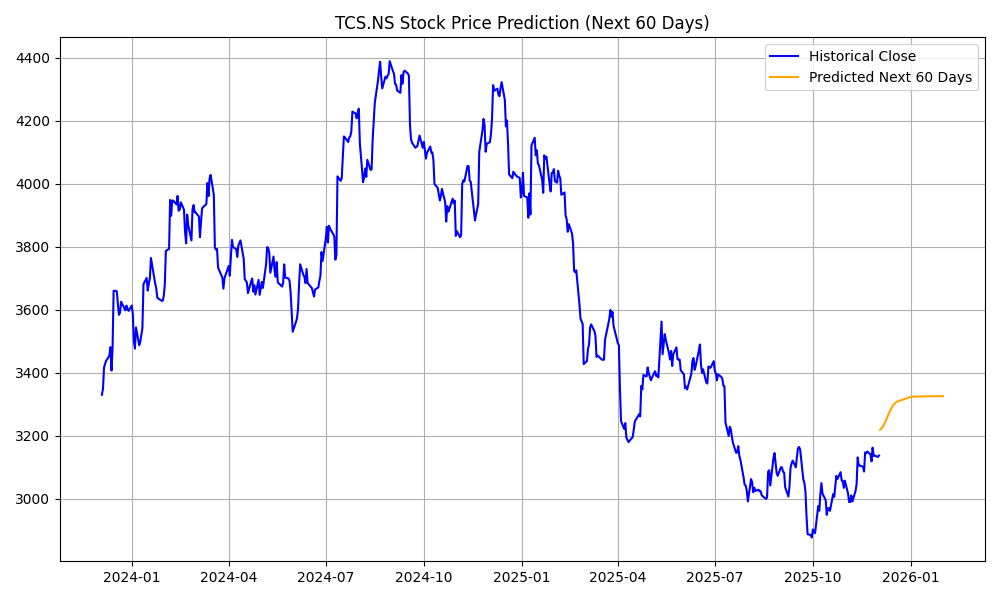
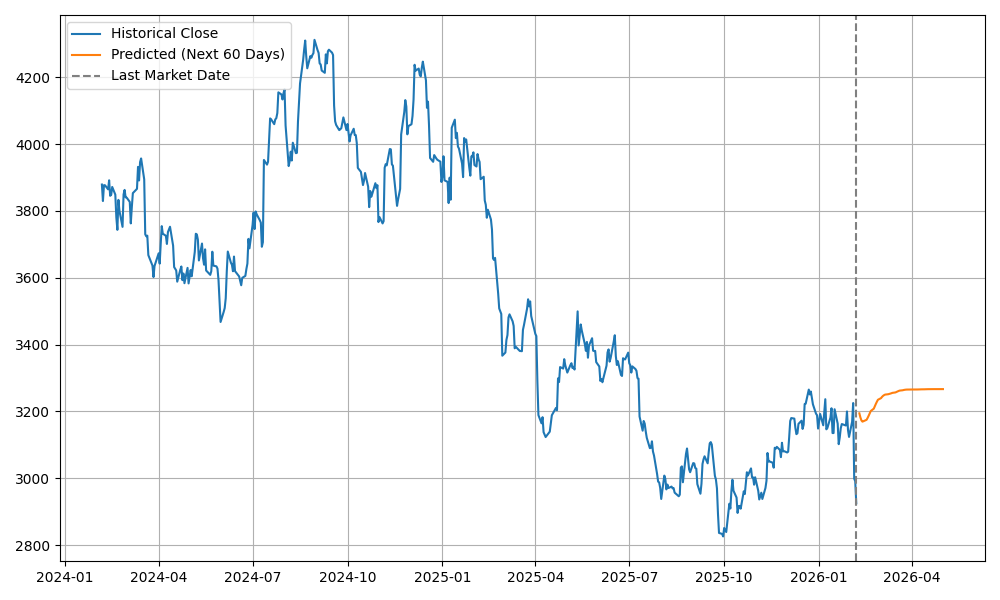
done

diff --git a/main.py b/main.py
@@ -58,10 +58,10 @@ def analyze_stock(stock: str = Form(...)):
         if model is None:
             model = load_model(MODEL_PATH)
 
-        # Fetch data
+        # Fetch stock data
         data = yf.download(stock, period="2y", auto_adjust=True, threads=False)
         if data.empty:
-            return JSONResponse(status_code=400, content={"error": "Invalid stock symbol"})
+            return JSONResponse(status_code=400, content={"error": "Invalid stock symbol or no data found"})
 
         data = data[['Close']]
 
@@ -69,7 +69,7 @@ def analyze_stock(stock: str = Form(...)):
         scaler = MinMaxScaler()
         scaled_data = scaler.fit_transform(data)
 
-        # Prepare input
+        # Prepare input (last 60 days)
         last_60_days = scaled_data[-60:]
         current_input = np.array([last_60_days])
 
@@ -88,10 +88,11 @@ def analyze_stock(stock: str = Form(...)):
             np.array(future_predictions).reshape(-1, 1)
         )
 
-        # 🔥 FIXED PART: use CURRENT DATE + BUSINESS DAYS
-        today = pd.Timestamp.today().normalize()
+        # 🔥 CORRECT DATE FIX (IMPORTANT)
+        last_market_date = data.index[-1]
+
         future_dates = pd.bdate_range(
-            start=today + pd.Timedelta(days=1),
+            start=last_market_date + pd.Timedelta(days=1),
             periods=60
         )
 
@@ -107,8 +108,9 @@ def analyze_stock(stock: str = Form(...)):
 
         # === Prediction Chart ===
         plt.figure(figsize=(10, 6))
-        plt.plot(data['Close'], label="Historical Close")
-        plt.plot(pred_df['Date'], pred_df['Predicted_Close'], label="Predicted")
+        plt.plot(data.index, data['Close'], label="Historical Close")
+        plt.plot(pred_df['Date'], pred_df['Predicted_Close'], label="Predicted (Next 60 Days)")
+        plt.axvline(last_market_date, color="gray", linestyle="--", label="Last Market Date")
         plt.legend()
         plt.grid()
         plt.tight_layout()
@@ -117,6 +119,7 @@ def analyze_stock(stock: str = Form(...)):
 
         return {
             "message": f"✅ Analysis complete for {stock}",
+            "last_market_date": str(last_market_date.date()),
             "data_preview": pred_df.head(10).to_dict(orient="records"),
             "charts": {
                 "prediction": f"/download_chart/{stock}/prediction"
@@ -147,3 +150,4 @@ def download_chart(stock: str, chart_type: str):
 if __name__ == "__main__":
     import uvicorn
     uvicorn.run("main:app", host="0.0.0.0", port=8000)
+
